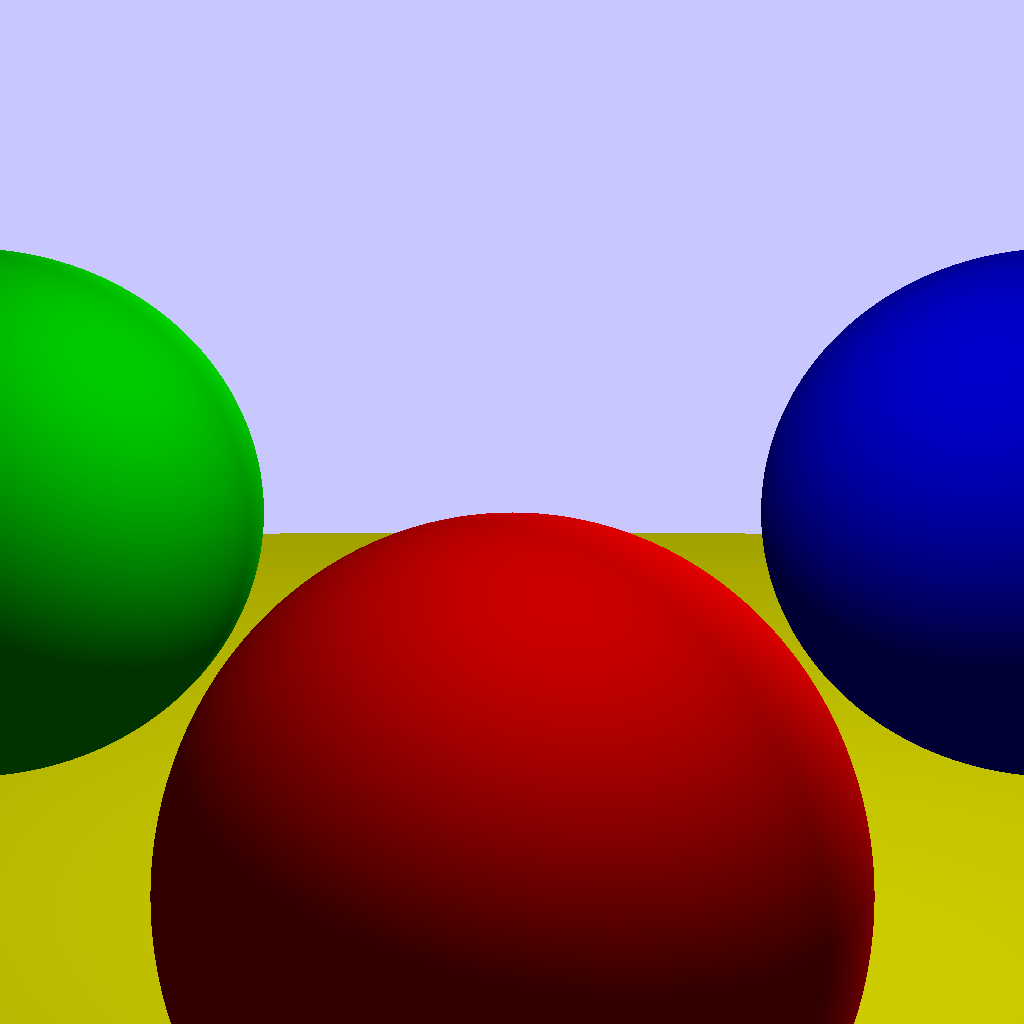
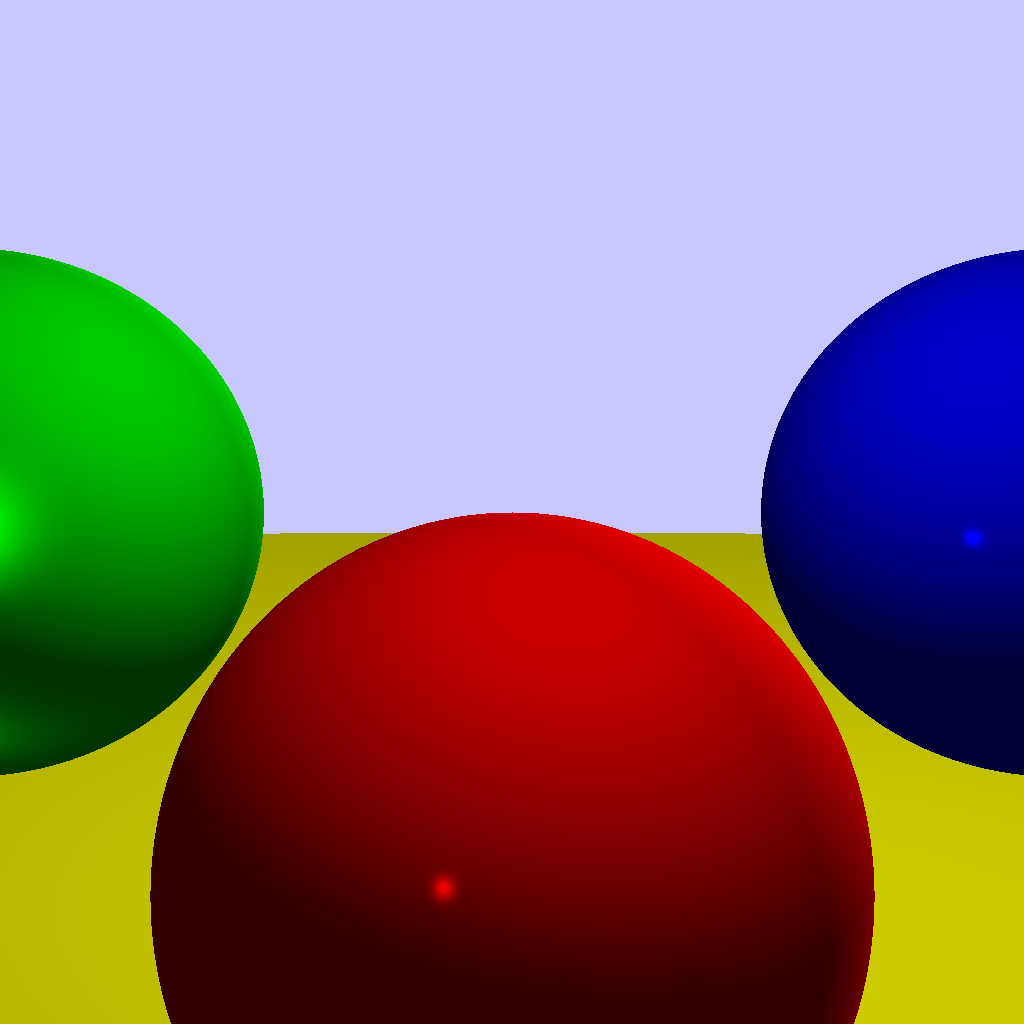
Add in specular reflection

diff --git a/Computer Graphics From Scratch/Scene.cpp b/Computer Graphics From Scratch/Scene.cpp
@@ -77,18 +77,20 @@ Color Scene::TraceRay(Vec3 rayDirection, float minDist, float maxDist)
 	auto norm = point - closestSphere->center;
 	norm.Normalize();
 
-	return closestSphere->color * ComputeLighting(point,norm);
+	return closestSphere->color * ComputeLighting(point, norm, rayDirection * -1.0f, closestSphere->specular);
 }
 
-float Scene::ComputeLighting(Vec3 point, Vec3 normal)
+float Scene::ComputeLighting(Vec3 point, Vec3 normal, Vec3 view, int specular)
 {
-	float i = 0.0f;
+	float intensity = 0.0f;
+	const float normalLength = normal.Length();
+	float viewLength = view.Length();
 
 	for (auto& light : lights)
 	{
 		if (light.type == Light::Ambient)
 		{
-			i += light.intensity;
+			intensity += light.intensity;
 		}
 		else
 		{
@@ -102,14 +104,28 @@ float Scene::ComputeLighting(Vec3 point, Vec3 normal)
 				lightVector = light.direction;
 			}
 
-			float normDotLight = normal.Dot(lightVector);
+			// Diffuse reflection
+			const float normDotLight = normal.Dot(lightVector);
 
 			if (normDotLight > 0)
 			{
-				i += light.intensity * normDotLight/(normal.Length() * lightVector.Length());
+				intensity += light.intensity * normDotLight / (normalLength * lightVector.Length());
+			}
+
+			// Specular Reflection
+			if (specular >= 0)
+			{
+				float scaledDot = 2.0f * normal.Dot(lightVector);
+				Vec3 reflectionVector = (normal * scaledDot) - lightVector;
+				const float reflectionDotView = reflectionVector.Dot(view);
+				if (reflectionDotView > 0)
+				{
+					intensity += light.intensity * powf(reflectionDotView / (reflectionVector.Length() * viewLength),
+					                                    specular);
+				}
 			}
 		}
 	}
 
-	return i;
+	return intensity;
 }

diff --git a/Computer Graphics From Scratch/main.cpp b/Computer Graphics From Scratch/main.cpp
@@ -8,10 +8,10 @@ int main()
 	//Scene Setup
 	Scene mainScene({{0.0f, 0.0f, 0.0f}, {1,1}, 1, {200,200,255,255}});
 
-	mainScene.AddObjectToScene({{0, -1, 3}, 1, {255, 0, 0, 255}});
-	mainScene.AddObjectToScene({{2, 0, 4}, 1, {0, 0, 255, 255}});
-	mainScene.AddObjectToScene({{-2, 0, 4}, 1, {0, 255, 0, 255}});
-	mainScene.AddObjectToScene({{0, -5001, 0}, 5000, {255, 255, 0, 255}});
+	mainScene.AddObjectToScene({{0, -1, 3}, 1, {255, 0, 0, 255}, 500});
+	mainScene.AddObjectToScene({{2, 0, 4}, 1, {0, 0, 255, 255}, 500});
+	mainScene.AddObjectToScene({{-2, 0, 4}, 1, {0, 255, 0, 255}, 10});
+	mainScene.AddObjectToScene({{0, -5001, 0}, 5000, {255, 255, 0, 255}, 1000});
 
 	mainScene.AddLightToScene({Light::Ambient, 0.2f});
 	mainScene.AddLightToScene({Light::Point, 0.6f, {2,1,0}} );

diff --git a/Computer Graphics From Scratch/Sphere.h b/Computer Graphics From Scratch/Sphere.h
@@ -5,8 +5,8 @@
 class Sphere
 {
 public:
-	Sphere(Vec3 center, float radius, Color color)
-		: center(center), radius(radius), color(color)
+	Sphere(Vec3 center, float radius, Color color, int specular)
+		: center(center), radius(radius), color(color), specular(specular)
 	{
 	}
 
@@ -17,4 +17,5 @@ public:
 	Vec3 center;
 	float radius;
 	Color color;
+	int specular;
 };

diff --git a/Computer Graphics From Scratch/Scene.h b/Computer Graphics From Scratch/Scene.h
@@ -22,5 +22,5 @@ private:
 	std::vector<Sphere> objects;
 	std::vector<Light> lights;
 
-	float ComputeLighting(Vec3 point, Vec3 normal);
+	float ComputeLighting(Vec3 point, Vec3 normal, Vec3 view, int specular);
 };
